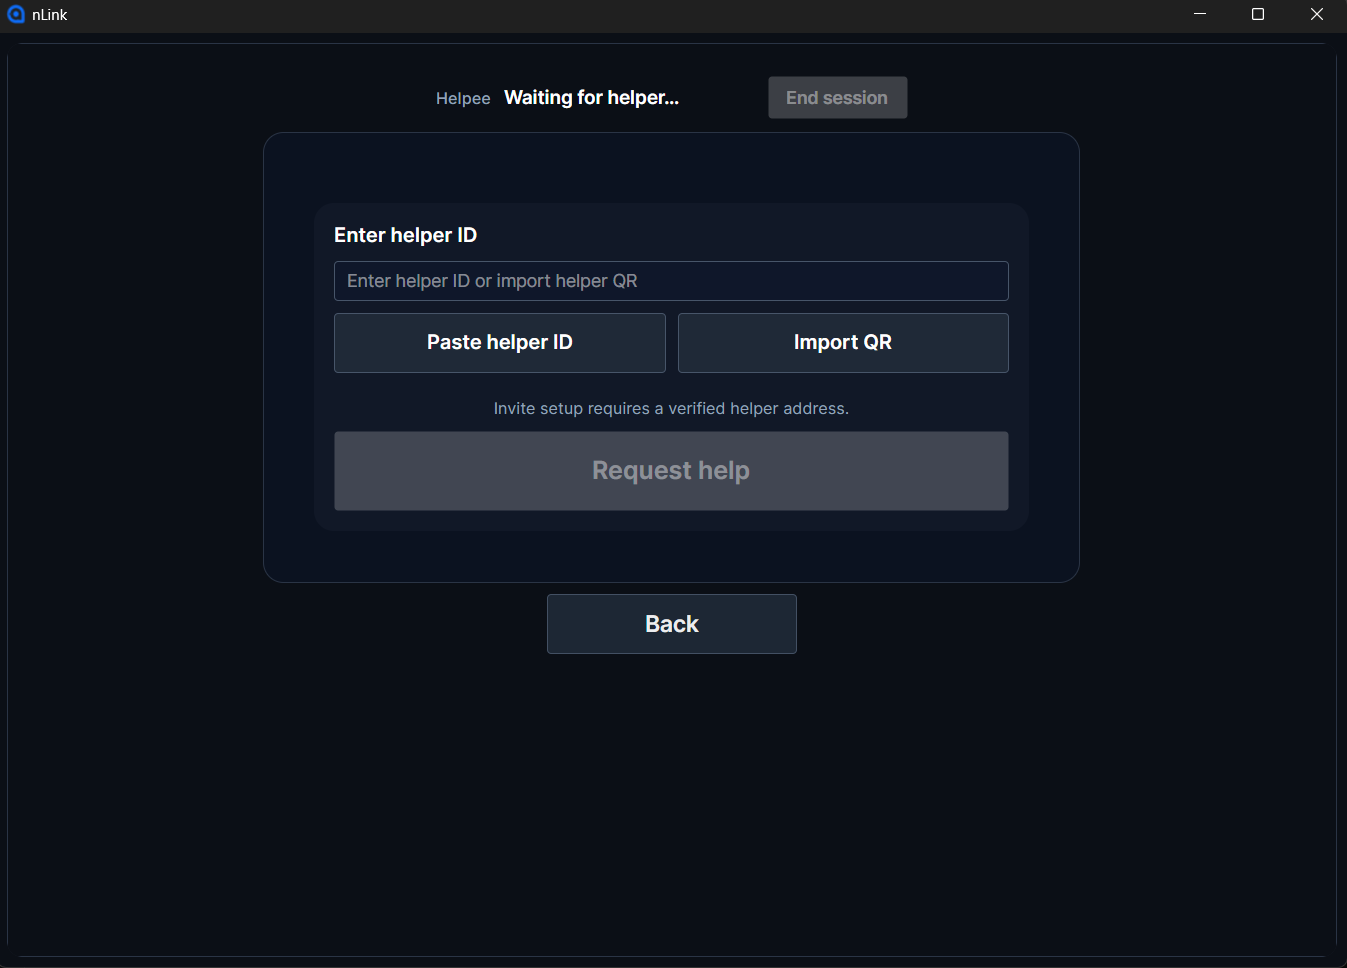
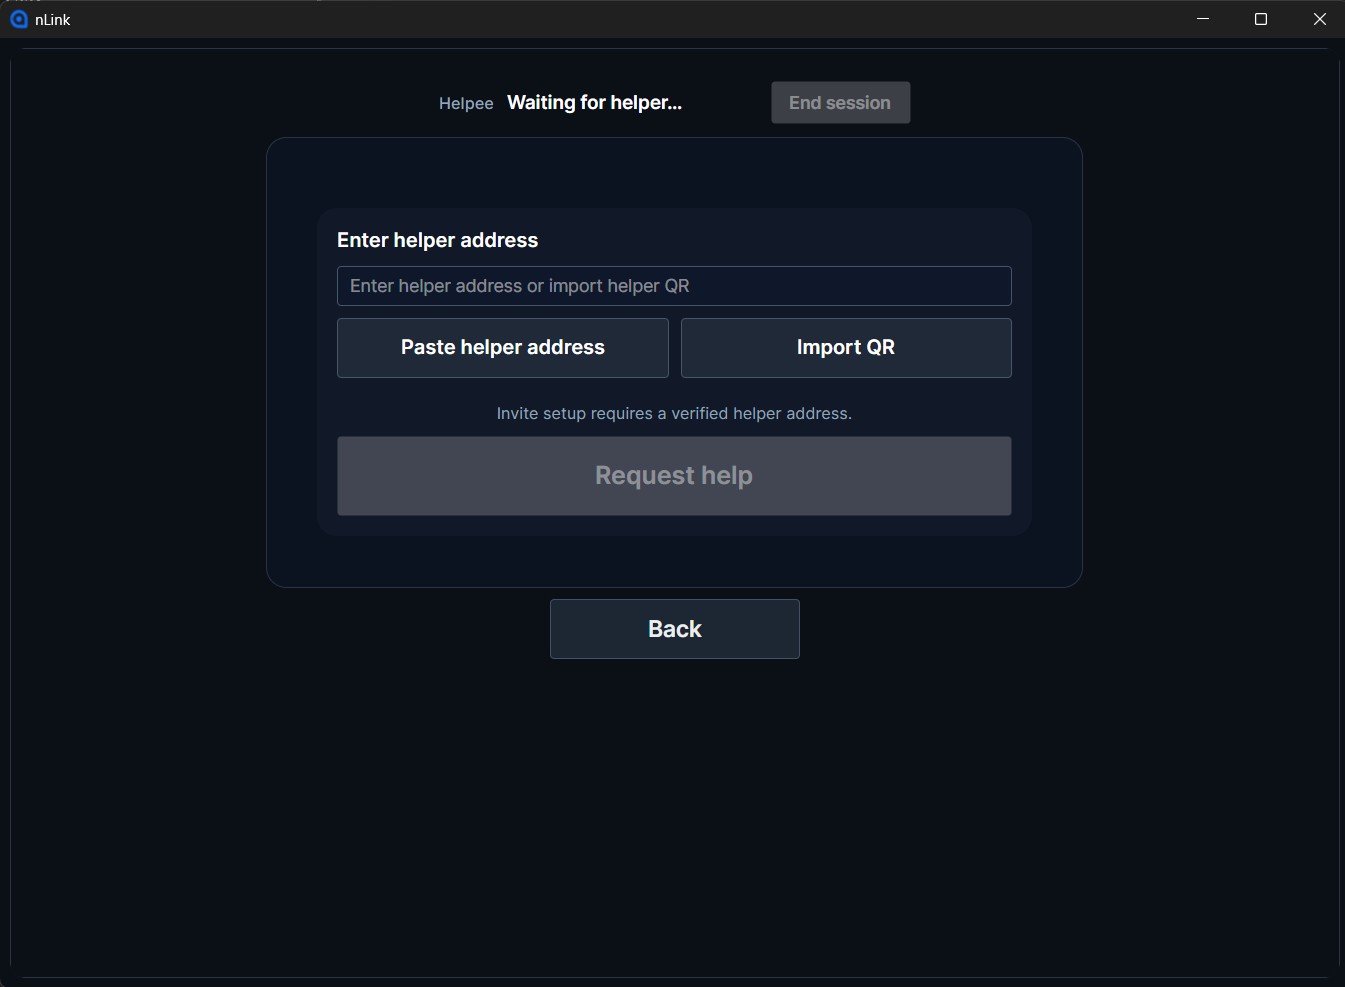
ID to Address

diff --git a/src/nLink.App/ViewModels/HelpeePageViewModel.cs b/src/nLink.App/ViewModels/HelpeePageViewModel.cs
@@ -398,7 +398,7 @@ public sealed class HelpeePageViewModel : ViewModelBase, IDisposable, IChatPanel
             {
                 return HasVerifiedInviteHelperIdentity
                     ? "Paste a different helper address to refresh the invite binding."
-                    : "Paste or import the helper ID your helper shared with you.";
+                    : "Paste or import the helper address your helper shared with you.";
             }
 
             if (!TryResolveInviteHelperIdentityInput(out _, out _, out _))
@@ -2210,7 +2210,7 @@ public sealed class HelpeePageViewModel : ViewModelBase, IDisposable, IChatPanel
         if (ResolveVerifiedHelpRequestTargetAddress() is not { } helperAddress ||
             string.IsNullOrWhiteSpace(ShareInvite))
         {
-            UpdateShareInviteStatusText("Enter a valid helper ID first.");
+            UpdateShareInviteStatusText("Enter a valid helper address first.");
             return;
         }
 
@@ -2234,7 +2234,7 @@ public sealed class HelpeePageViewModel : ViewModelBase, IDisposable, IChatPanel
                 ConnectionStatus = "Waiting for helper…";
                 UpdateShareInviteStatusText(
                     ex is TimeoutException
-                        ? "Couldn't reach the helper. Check the helper ID and try again."
+                        ? "Couldn't reach the helper. Check the helper address and try again."
                         : "Couldn't send the help request right now. Please try again.");
             });
             return;
